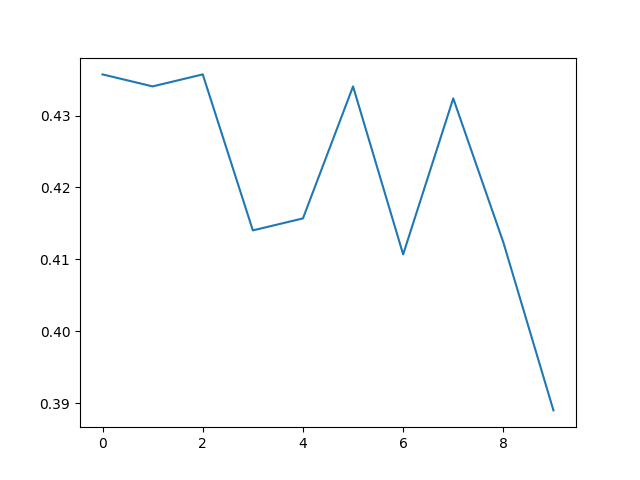
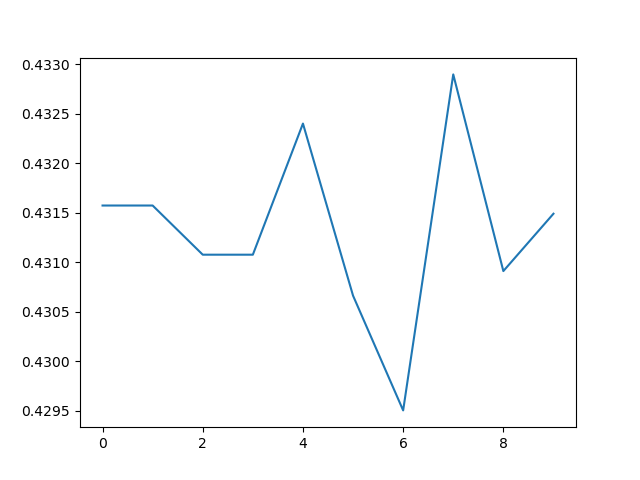
Some bugs fixed

diff --git a/applications/loan_lending/main.py b/applications/loan_lending/main.py
@@ -5,28 +5,29 @@ from controllers import ExtendedAlgorithm, OneStepAlgorithm
 
 
 
-def test1():
-    N = 10000
-    fun1 = WrappedFun(lambda x: np.sum(x, axis=-1) > 2)
-    fun2 = WrappedFun(lambda x: np.sum(x, axis=-1) < 3)
-    x = np.random.randint(2, size=(N, 4))
-    y = np.random.randint(2, size=(N)) & (fun1(x) | fun2(x))
-    A = np.random.randint(2, size=(N))
-    # print(x, y.astype(np.int32), A)
-    print(*fun1.loss(x, y, A), sep='\n')
-
-    learner = FiniteAlphaLearner([fun1, fun2])
-    learner.fit(x, y, A, 0.1)
+# def test1():
+#     N = 10000
+#     fun1 = WrappedFun(lambda x: np.sum(x, axis=-1) > 2)
+#     fun2 = WrappedFun(lambda x: np.sum(x, axis=-1) < 3)
+#     x = np.random.randint(2, size=(N, 4))
+#     y = np.random.randint(2, size=(N)) & (fun1(x) | fun2(x))
+#     A = np.random.randint(2, size=(N))
+#     # print(x, y.astype(np.int32), A)
+#     print(*fun1.loss(x, y, A), sep='\n')
+#
+#     learner = FiniteAlphaLearner([fun1, fun2])
+#     learner.fit(x, y, A, 0.1)
 
 
 if __name__ == '__main__':
-    df = pd.read_csv('data/application_train.csv',
+    np.random.seed(23)
+    df = pd.read_csv('./data/application_train.csv',
                      usecols=['TARGET', 'FLAG_OWN_CAR', 'FLAG_OWN_REALTY', 'CODE_GENDER', 'CNT_CHILDREN',
                               'AMT_INCOME_TOTAL', 'AMT_CREDIT', 'OWN_CAR_AGE'])
     df = df.dropna()
     df = pd.concat((df[df.TARGET == 1], df[df.TARGET == 0].sample(frac=0.1)))
     df = df.sample(frac=1)  # Shuffle dataset
-    print(df.describe())
+    # print(df.describe())
     y = df['TARGET'].to_numpy()
     x = np.concatenate(
         ((df[['FLAG_OWN_CAR', 'FLAG_OWN_REALTY']] == 'Y').to_numpy().astype(np.int32),
@@ -37,9 +38,9 @@ if __name__ == '__main__':
         axis=-1)
 
     A = (df['CODE_GENDER'] == 'M').to_numpy()
-    print(x[:10], y[:10])
+    # print(x[:10], y[:10])
 
-    learner = FiniteBetaLearner(compose([
+    function_class = compose([
         lambda x: x[:, 0],
         lambda x: x[:, 1],
         lambda x: x[:, 2] > 0,
@@ -51,7 +52,10 @@ if __name__ == '__main__':
         lambda x: x[:, 5] > 20,
         lambda x: 3 * x[:, 6],
         # lambda x: x[:, 3]>50000,
-    ], 10000))
-    # learner.fit(x, y, A, 0.1)
-    ctrl = OneStepAlgorithm(learner, 1e-30) # ExtendedAlgorithm(learner, 1e-30)
-    ctrl.fit(iter(zip(x, y, A)))
+    ], 10000)
+    beta_learner = FiniteBetaLearner(function_class)
+    alpha_learner = FiniteAlphaLearner(function_class)
+    ctrl_alpha = OneStepAlgorithm(alpha_learner, 1e-30) # ExtendedAlgorithm(learner, 1e-30)
+    ctrl_alpha.fit((x, y, A))
+    ctrl_beta = OneStepAlgorithm(beta_learner, 1e-30)
+    ctrl_beta.fit((x, y, A))

diff --git a/applications/loan_lending/learners.py b/applications/loan_lending/learners.py
@@ -3,23 +3,6 @@ from tqdm import tqdm
 import matplotlib.pyplot as plt
 
 
-class NDLearner:
-    def __init__(self, *args, **kwargs):
-        pass
-
-    def fit(self, x, y, A, alpha, min_ya_p_ya=0.25):
-        '''
-        Finds the empirical minimalizer that is alpha-discriminatory.
-        '''
-        pass
-
-    def __call__(self, x, A=None):
-        '''
-        Returns the prediction on the data x.
-        '''
-        pass
-
-
 class NDFunction:
     def __init__(self):
         pass
@@ -42,10 +25,8 @@ class NDFunction:
                 n_per_class[k] != 0 else 0.5
             p_y_hat_given_y = np.sum((y == _y) & (prediction == 1)).astype(np.float32) / n_per_target if \
                 n_per_target != 0 else 0.5
-            beta_loss = max(beta_loss, abs(gamma[k] - p_y_hat_given_y) * n_per_class[k])
+            beta_loss = max(beta_loss, abs(gamma[k] - p_y_hat_given_y) * (n_per_class[k] / len(x)))
         alpha_loss = max(abs(gamma[(0, 0)] - gamma[(0, 1)]), abs(gamma[(1, 0)] - gamma[(1, 1)]))
-        # print(n_per_class)
-        # print(gamma)
         return loss, alpha_loss, beta_loss, (n_per_class, gamma)
 
 
@@ -58,7 +39,7 @@ class WrappedFun(NDFunction):
         return self.fun(x)
 
 
-class FiniteAlphaLearner(NDLearner, WrappedFun):
+class FiniteAlphaLearner(WrappedFun):
     'For set of NDFunctions finds the empirical best.'
 
     def __init__(self, funs):
@@ -78,18 +59,18 @@ class FiniteAlphaLearner(NDLearner, WrappedFun):
                 current_alpha_loss = alpha_loss
                 self.fun = f
 
-        print(
-            f'A {alpha}-discriminatory empirical minimizer has been found with {current_loss} test loss and {current_alpha_loss} gamma loss.')
-        plt.boxplot(list(losses.values()))
-        plt.savefig('gamma_vs_mistakes.png')
-
-        plt.clf()
-        plt.plot(list(map(lambda x: np.min(x), losses.values())))
-        plt.savefig('empirical_bests.png')
+        # print(
+        #     f'A {alpha}-discriminatory empirical minimizer has been found with {current_loss} test loss and {current_alpha_loss} gamma loss.')
+        # plt.boxplot(list(losses.values()))
+        # plt.savefig('gamma_vs_mistakes.png')
+        #
+        # plt.clf()
+        # plt.plot(list(map(lambda x: np.min(x), losses.values())))
+        # plt.savefig('empirical_bests.png')
         return current_loss, current_alpha_loss
 
 
-class FiniteBetaLearner(NDLearner, WrappedFun):
+class FiniteBetaLearner(WrappedFun):
     'For set of NDFunctions finds the empirical best.'
 
     def __init__(self, funs):

diff --git a/applications/loan_lending/controllers.py b/applications/loan_lending/controllers.py
@@ -32,13 +32,14 @@ class OneStepAlgorithm:
         self.delta = delta
 
     def fit(self, dataset, test_size=0.3):
-        n = len(dataset)
         X, Y, A = dataset
-        X_train, X_test, Y_train, Y_test, A_train, A_test = train_test_split(X, Y, A, test_size=test_size)
+        n = len(X)
+        X_train, X_test, Y_train, Y_test, A_train, A_test = train_test_split(X, Y, A, test_size=test_size, random_state=23)
         min_ya_p_ya = find_min_ya_p_ya(Y, A)
         alpha = 2 * np.sqrt(np.log(64 / self.delta) / (n * min_ya_p_ya))
-        objective_loss_train, alpha_loss_train, _ = self.learner.fit(X_train, Y_train, A_train, alpha, min_ya_p_ya)
+        objective_loss_train, alpha_loss_train = self.learner.fit(X_train, Y_train, A_train, alpha, min_ya_p_ya)
         objective_loss_test, alpha_loss_test, _, _ = self.learner.loss(X_test, Y_test, A_test)
-        print(f"The learner has objective loss {objective_loss_train} and gamma loss {alpha_loss_train} on the "
+        print(f"The learner has objective loss {objective_loss_train} and alpha loss {alpha_loss_train} on the "
               f"training set.")
-        print(f"The learner has objective loss {objective_loss_test} and gamma loss {alpha_loss_test} on the test set.")
+        print(f"The learner has objective loss {objective_loss_test} and alpha loss {alpha_loss_test} on the test set.")
+        # TODO: add decomposition into categories
